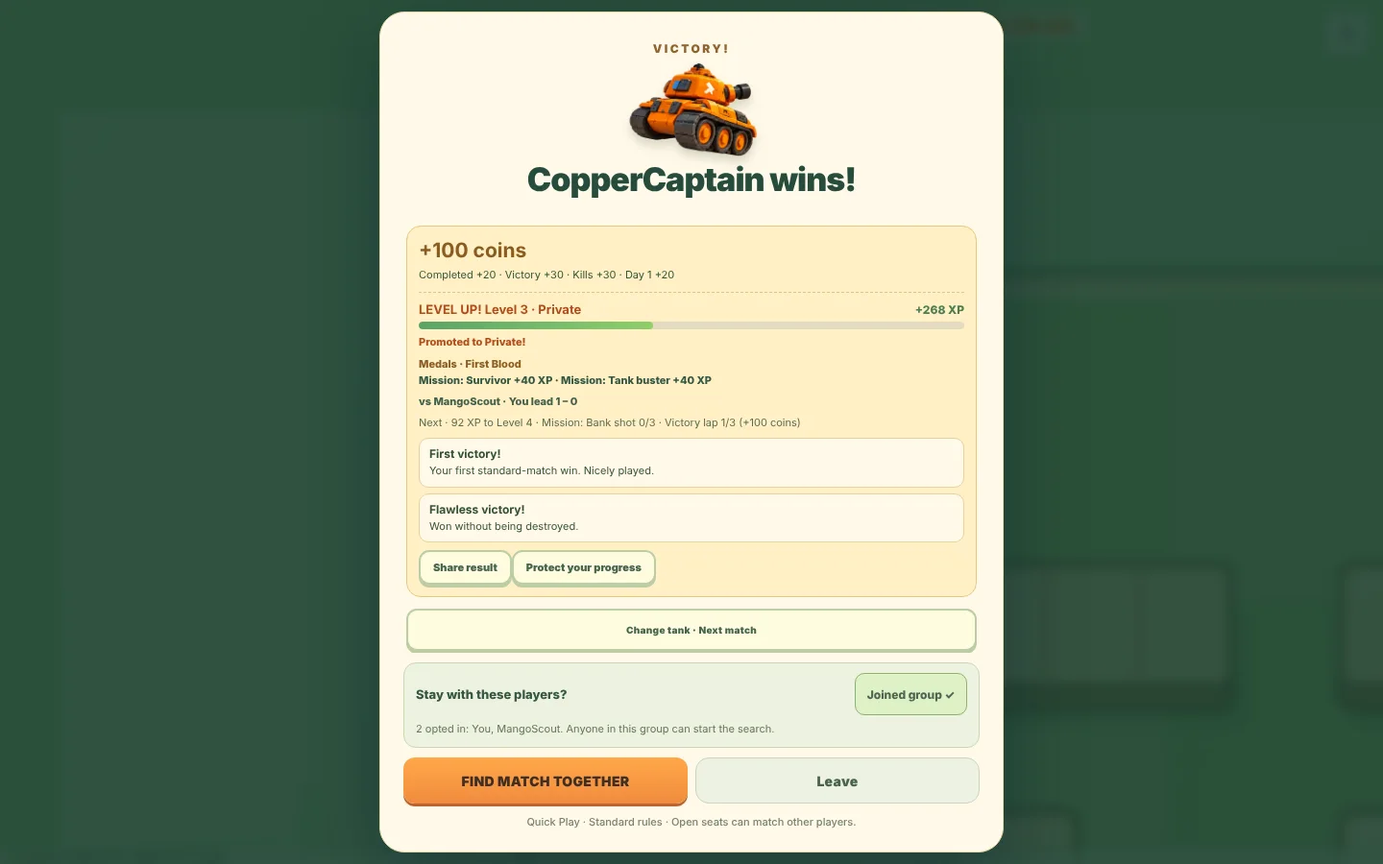
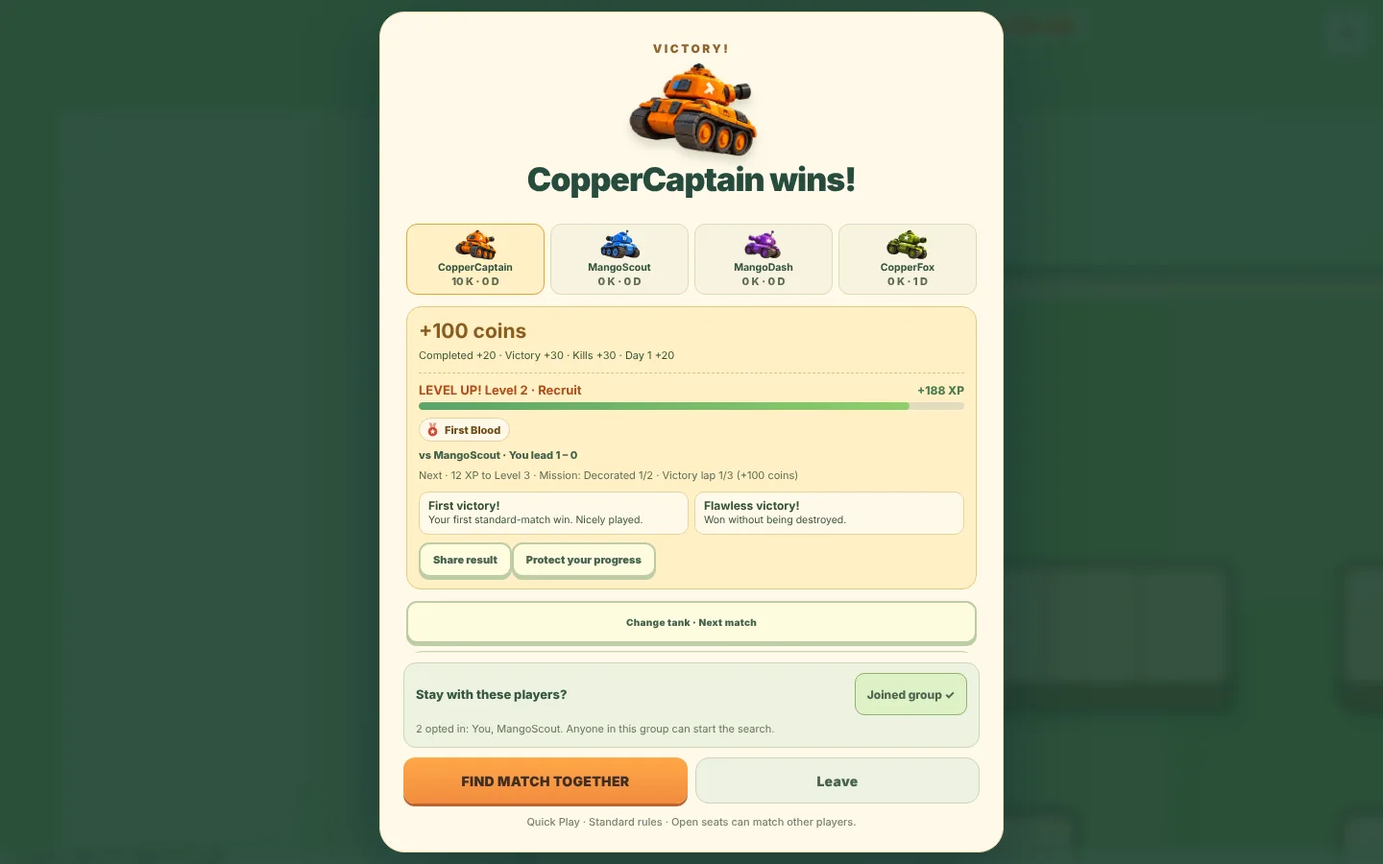
WIP 3.12: docs, version, tutorial image, CI steps

Changed region(s): [[0.2812, 0.2489, 0.7188, 0.7778]]

diff --git a/index.html b/index.html
@@ -1032,7 +1032,7 @@ html,body{background:#193f35}.page{animation:none}.game,.stage{background-color:
 <section id="tutorial" class="tutorial" role="dialog" aria-modal="true" aria-labelledby="tutorialTitle" hidden><div class="tutorial-card">
 <header class="tutorial-head"><div><p class="eyebrow">BOOT CAMP</p><h2 id="tutorialTitle">How to play</h2></div><button id="closeTutorial" class="tool" type="button" aria-label="Close how to play">CLOSE ✕</button></header>
 <div id="tutorialBody" class="tutorial-body" aria-live="polite">
-<article id="lessonWin" class="lesson"><img src="./tutorial/win.webp" alt="Results with the winner, coins, a level-up, medals, daily missions, a rival record, the next goal and opt-in Stay together controls for finding another match" width="1440" height="900" loading="lazy"><div><p class="eyebrow">HOW TO WIN</p><h3>Reach the win count.</h3><ul>
+<article id="lessonWin" class="lesson"><img src="./tutorial/win.webp" alt="Results with the winner, every player’s score, coins, a level-up, a medal, a rival record, the next goal and opt-in Stay together controls for finding another match" width="1440" height="900" loading="lazy"><div><p class="eyebrow">HOW TO WIN</p><h3>Reach the win count.</h3><ul>
 <li><b>Deathmatch:</b> the first player to the arena's win count wins.</li>
 <li><b>2 vs 2:</b> the first team to the win count wins. No friendly fire.</li>
 <li>The creator chooses <b>5 to 50 kills</b>; the default is <b>10</b>.</li>

diff --git a/shared.js b/shared.js
@@ -1,6 +1,6 @@
 (function(root) {
   const data = {
-    version:'3.11.0',maxHealth:10,laserDamage:4,laserRadius:6,barrelLength:40,doubleBarrelOffset:6,turretHeight:28,
+    version:'3.12.0',maxHealth:10,laserDamage:4,laserRadius:6,barrelLength:40,doubleBarrelOffset:6,turretHeight:28,
     mapLabels:{quarry:'Quarry',crossroads:'Crossroads'},
     // Badges with a stat and target unlock from lifetime totals and show progress in the Garage.
     achievements:[

diff --git a/GAMEPLAY.md b/GAMEPLAY.md
@@ -8,7 +8,7 @@ A playful, browser-based tank arena with chunky toy tanks, a sunny cartoon quarr
 
 On a phone, creating an arena and adding bots fit within the viewport. The map remains edge to edge during the countdown and on the result screen.
 
-Current release: **v3.11.0**, also shown in the top-left corner of the arena browser artwork. See [CHANGELOG.md](CHANGELOG.md) for release notes. The version appears in several files; follow the release checklist in [AGENTS.md](AGENTS.md).
+Current release: **v3.12.0**, also shown in the top-left corner of the arena browser artwork. See [CHANGELOG.md](CHANGELOG.md) for release notes. The version appears in several files; follow the release checklist in [AGENTS.md](AGENTS.md).
 
 The private admin page uses **system CPU and memory gauges**, with the game's share overlaid in orange from the zero end of each arc. CPU converts the game's one-core reading to a fraction of all cores; memory compares resident game memory with total RAM. Game percentages appear inside the gauges, with resident MiB in the memory gauge. Pi load shows 1-, 5- and 15-minute averages, values per CPU core and a 60-second history collected while the page is open. Core-count reference markers make load easier to interpret. Resource readings refresh once a second and are marked stale when disconnected; room views still refresh twice a second. See [DOCS.md](DOCS.md) for measurement details.
 
@@ -33,6 +33,8 @@ The main-screen illustration animates with tank recoil, brief muzzle flashes and
 
 One kill can earn several. Your own medals appear as a banner with a short chime (Effects Off mutes it); every kill-feed line shows the main medal; your results list them. AI tanks can earn medals too. Medals give experience, not coins or power.
 
+**Home screen:** your own tank, in its current skin, sits beside your level bar. Three tiles below show today's daily reward day, daily missions done and weekly challenges done; tap one to open its details in the Garage.
+
 **Levels and ranks:** every finished standard match gives experience: 50 for finishing, 40 for winning, 6 per kill (15 counted), 8 per medal (10 counted), 30 for your first match of the Malaysia day, and 10 for each extra win in a row (up to 40). The same rules as coins apply: standard settings, taking part, and staying to the end; practice matches, vehicle tests, idling and leaving earn none. Leaving or dropping out of a standard match also ends your win streak. Level 2 needs 80 experience, so your first finished match always levels you up; each level needs 40 more than the last, up to 600. Ranks: Recruit (1), Private (3), Corporal (6), Sergeant (10), Lieutenant (15), Captain (20), Major (26), Colonel (33), General (41), Field Marshal (50). Your level shows on the home screen and in the Garage; everyone sees a **LV** chip beside each player in lobbies and Quick Play line-ups. AI tanks have no level. **Levels are status only: no coins, no stat changes.** Players who had finished matches before levels existed start with experience for them (no coins).
 
 Results show the experience gained on a bar that fills to your new position, **LEVEL UP!** and any promotion, your medals, consecutive wins, and one **Next** line with the experience to the next level and your nearest unfinished weekly goal.
@@ -45,7 +47,7 @@ Results show the experience gained on a bar that fills to your new position, **L
 
 **Weekly champion:** whoever finished last week (Monday to Sunday, Malaysia time) at number one on the weekly leaderboard, with at least one win, wears a gold crown for the whole of this week: beside their name in lobbies, Quick Play line-ups and results, above their name tag in battle, and in a banner on the leaderboard. Playing a match as champion earns the Weekly champion badge. The crown is status only.
 
-**Share result** on the results screen opens your phone's share sheet (or copies the text on a computer) with a short summary such as "🏆 Victory in Tank Frenzy! 10 kills · 4 deaths · 🎯 52% · 🏅 Double Kill · Level 5 Private. Can you beat me?" and the game's address. Nothing private is included. In a friend lobby, **Invite / QR** also offers **Share invite** where the browser has a share sheet.
+**Share result** on the results screen shares a square picture of the result (your tank in its skin, kills, deaths, hit rate, medals and level) where the device can share files, with the summary as its caption. Otherwise it opens the share sheet with the text, and on a computer it copies the text and saves the picture. The summary reads like "🏆 Victory in Tank Frenzy! 10 kills · 4 deaths · 🎯 52% · 🏅 Double Kill · Level 5 Private. Can you beat me?" and the game's address. Nothing private is included. In a friend lobby, **Invite / QR** also offers **Share invite** where the browser has a share sheet.
 
 **Link previews:** a game link pasted into a chat app shows a title, a description and a picture; an invitation link reads "Join my Tank Frenzy arena · CODE". Previews need a public address (see DOCS.md).
 
@@ -79,13 +81,13 @@ Open the game's address (in the Home Assistant app: `http://YOUR_PI_IP:8765`, th
 
 Room links such as `https://your-game-address/?room=QUARRY` join directly with your remembered name; a generated Rookie callsign is supplied when needed. **Create Arena** creates and joins immediately with the selected mode and remembered rules. **Join Code** opens an editable code form; **Back** returns home. In the friend lobby, **Invite / QR** shows a scannable invitation and a copyable link. Rooms exist while humans remain, including brief reconnection reservations.
 
-The prominent **Play** button starts Quick Play immediately. **Create arena** and **Join with code** sit under Play with Friends; use the top-right profile icon to edit your remembered callsign; Save commits it and Back cancels. Public arenas appear only when available, with one-tap **Join**; an empty directory takes no screen space. Quick Play matches people arriving in the same mode around the same time; it never drops a new arrival into a round already underway. The oldest group waits up to **12 seconds**, or reveals immediately when four humans arrive. Remaining seats are filled with AI, then four large tank cards appear against the quarry backdrop with a **5-second** silent player-lineup timer with large numerals. The mobile arena is pinned to the viewport, with dark green page and browser-theme backgrounds behind the home-indicator area. The matchmaking background fills the fullscreen arena, with safe-area spacing around the content rather than pale borders at the screen edges. Everyone pressing **Ready** skips the remaining lineup wait. When the lineup ends, everyone enters the battlefield for a shared **3-second** countdown with audible ticks, then movement and firing unlock automatically. **Cancel** returns home without a confirmation. Public friend rooms refresh every five seconds. Quick Play groups and friends-only rooms are omitted from that directory.
+The prominent **Play** button starts Quick Play immediately. **Create arena** and **Join with code** sit under Play with Friends; use the top-right profile icon to edit your remembered callsign; Save commits it and Back cancels. Public arenas appear only when available, with one-tap **Join**; an empty directory takes no screen space. Quick Play matches people arriving in the same mode around the same time; it never drops a new arrival into a round already underway. The oldest group waits up to **12 seconds**, or reveals immediately when four humans arrive. While the search runs the field is live: a compact bar at the top shows who has been found, and you can drive and shoot to warm up. Nothing is damaged, collected or counted during the warm-up. **Your very first match skips the wait:** if you have never finished a match and nobody else is searching, you go straight to the countdown against three easy AI tanks; if someone is already searching, you join them. Remaining seats are filled with AI, then four large tank cards appear against the quarry backdrop with a **5-second** silent player-lineup timer with large numerals. The mobile arena is pinned to the viewport, with dark green page and browser-theme backgrounds behind the home-indicator area. The matchmaking background fills the fullscreen arena, with safe-area spacing around the content rather than pale borders at the screen edges. Everyone pressing **Ready** skips the remaining lineup wait. When the lineup ends, everyone enters the battlefield for a shared **3-second** countdown with audible ticks, then movement and firing unlock automatically. **Cancel** returns home without a confirmation. Public friend rooms refresh every five seconds. Quick Play groups and friends-only rooms are omitted from that directory.
 
 Desktop waiting rooms and battles fit the window without scrolling: the brand, tagline and How to Play share one slim row above the arena.
 
 The home screen uses a forest-green backdrop with quarry artwork beside the play panel on PCs and above it on phones and portrait tablets. Play and friend actions remain visible on small phones and short landscape screens. Longer public directories scroll, and the page can scroll when needed for larger text or a short viewport. Create/Join, waiting rooms and battles show the tagline in one compact line. On narrow screens the Create/Join form keeps its room rules and submit button visible without the arena header or controls taking space.
 
-Results show the winning tank or team and weekly rank movement before the compact player/kill scorecard. **Match Details** opens a separate panel inside the fullscreen arena with kills, deaths, hit rate and damage. Back closes it. When the 20-second rematch window expires, the final scoreboard and details stay visible; the group does not return to the waiting room. **Find new match** leaves the old group and starts Quick Play in the same mode in one tap, preserving fullscreen/expanded view. **Play Again** is available only during the rematch window; **Find new match** and **Leave** remain afterward. Actions stay outside the scrolling content. The reaction button opens the horizontal picker; menu and illustrated reaction icons use SVG so their appearance does not depend on installed emoji fonts.
+The match-winning kill plays for about a second in slow motion before the results open. Results show the winning tank or team, then every player's kills and deaths at a glance, then your rewards: coins count up, the experience bar fills and medals appear as coloured chips. Weekly rank movement and the compact player/kill scorecard follow. **Match Details** opens a separate panel inside the fullscreen arena with kills, deaths, hit rate and damage. Back closes it. When the 20-second rematch window expires, the final scoreboard and details stay visible; the group does not return to the waiting room. **Find new match** leaves the old group and starts Quick Play in the same mode in one tap, preserving fullscreen/expanded view. **Play Again** is available only during the rematch window; **Find new match** and **Leave** remain afterward. Actions stay outside the scrolling content. The reaction button opens the horizontal picker; menu and illustrated reaction icons use SVG so their appearance does not depend on installed emoji fonts.
 
 After the rematch window closes, **Stay together** offers an optional next-match group when at least two humans are connected. Each person opts in for themselves; click again to withdraw. Opting in alone never starts a search. With at least two consenting players, the action becomes **Find match together** for those players. Any consenting member can launch it. All consenting connected humans enter one same-mode Quick Play search together; everyone else stays on their results. With no group selected, **Find new match** still searches solo in one click. Quitting or disconnecting clears consent. AI cannot opt in, and no one replaces AI in another locked lineup. The new search uses standard public Quick Play rules; open seats can match other players and 2 vs 2 teams are balanced afresh, so staying in the same match is not a same-team guarantee. If the whole group cannot be admitted, everyone stays put with a retry notice. Normal silent lineup, Ready and field countdown follow. Admin spectators only see their finished leaderboard and Quit.
 
@@ -103,7 +105,7 @@ The circular **?** button opens **How to Play**, an eight-page guide with game s
 
 After creating a friend room, everyone sees tank cards with readiness, team and host status. The host starts the round and can edit mode, win count (5–50), bouncing, powers and friends-only privacy under **Room rules & privacy**. They can swap teams without exceeding two tanks per side. Changing rules, teams or bots clears readiness. Rules are fixed during play. Host ownership passes to a connected human when needed. The completed leaderboard remains visible after the result timer; it never automatically returns players to the waiting room. Use Play Again during the rematch window, opt into a new group search afterward, or leave/create a new friend arena to configure another battle.
 
-Friend-room starts and rematches use the existing shared **3–2–1** battle countdown. Quick Play also uses this battlefield countdown after its silent five-second lineup ends or all humans press Ready. Movement, aiming, firing and pickups stay frozen during all pregame phases. Friend rooms still allow late joins to running rounds; the Quick Play queue groups new humans only while searching. After its lineup locks, a direct invitation may fill a vacant human seat during countdown or play, but cannot replace AI.
+Friend-room starts and rematches use the existing shared **3–2–1** battle countdown. Quick Play also uses this battlefield countdown after its silent five-second lineup ends or all humans press Ready. Movement, aiming, firing and pickups stay frozen during the line-up, the countdown and friend lobbies; only the Quick Play search allows warm-up driving and firing. Friend rooms still allow late joins to running rounds; the Quick Play queue groups new humans only while searching. After its lineup locks, a direct invitation may fill a vacant human seat during countdown or play, but cannot replace AI.
 
 ## Host
 
@@ -134,6 +136,7 @@ The map name appears in matchmaking/waiting information and the field countdown,
 - During touch play, the map reaches the screen edges, while your score, health and menu sit inside the safe area over the map. The compact score chip shows progress toward the win target; a larger unlabeled bar shows your health and compact color-coded chips show the other tanks' kills without names. In 2 vs 2, the goal uses your team's kills and a star marks your teammate. Opponents' health bars also appear below their tanks. The arena code stays hidden while playing. Open the icon menu for fullscreen, invite, leave, music/effects and view controls. The close camera centres your own tank even at corner spawns and map edges, on both phones and PCs. Map space outside the boundary may be visible so your tank stays central. PC mouse aim remains under the cursor while the camera moves. Off-screen teammates get teal ALLY arrows; enemies get red ENEMY arrows. Arrows disappear in Full Map, after a win, or while respawning. Choose **Full Map** for an overview and **Close View** to return; this changes only your view, not movement, aiming, or the shared map. Leaving the arena restores the page.
 - Quick Play, Create Arena, joining an arena and Start Game enter fullscreen where the browser allows it (iPhone Safari uses the full browser view). Leaving restores the page.
 - Getting hit flares flames around the screen edges and shakes the view, harder for a laser or when destroyed. A −1/−4 damage number rises above every tank that takes damage, and destroyed tanks throw smoke and a shockwave ring. Android phones vibrate on your own hits (Effects Off disables it). At 3 health or less the edges keep smouldering until you heal or respawn. Reduced-motion settings keep the flames still and skip the shake.
+- Battle effects: a flash at the barrel and a small camera kick when you fire, dust and track marks behind moving tanks, a fireball with tumbling plates and a fading scorch mark where a tank is destroyed, smoke from wrecks, and a hit marker with a tick (and a short buzz on phones that support it) when your own shot lands. With reduced motion on, shake, dust, debris and slow motion are off.
 - Every destruction appears for a few seconds in a kill feed below the menu button ("Alice 💥 Bo"; your own kills and deaths are outlined). Three kills in a row without being destroyed shows "… is on fire! 🔥", five "… is unstoppable! ⚡", seven "… is a tank legend! 👑". Streaks reset when you are destroyed and on a rematch.
 - At 3 health or less a soft heartbeat plays with the smouldering screen edges (Effects Off mutes it).
 - Your own tank has a thick translucent halo in your color, plus a ★ after your name, so you can find it at a glance. In 2 vs 2, teammates have green rings and **ALLY** labels; opponents have red rings and **ENEMY** labels, independent of their individual tank colors. The result card separates Orange and Blue players and shows each team's score and winner.

diff --git a/AGENTS.md b/AGENTS.md
@@ -55,7 +55,7 @@ Multiplayer browser tank game packaged as a **Home Assistant app** (formerly add
 
 Client → server (JSON, max 2048 bytes, max 150 messages/s):
 - `{type:'join',room,name,mode:'create'|'join'|undefined,settings:{mode,bouncing,powers,targetScore},private?,profile?,token?}`. `token` reconnects for 90 s during battle. `{type:'quick',name,settings:{mode},profile?}` groups contemporaneous arrivals. Duplicate active profile membership is rejected.
-- `{type:'input',seq,x,y,aimX,aimY,fire}`. `seq` must increase; input is ignored outside the `playing` phase.
+- `{type:'input',seq,x,y,aimX,aimY,fire}`. `seq` must increase; input is ignored outside `playing` and the Quick Play `searching` warm-up.
 - `{type:'start'}` (owner only, while waiting), `{type:'rematch'}`, `{type:'bot',action:'add'|'remove'|'skill',skill}` (owner, waiting), `{type:'ping',sent}`, `{type:'leave'}`.
 - `{type:'spectate',room,pass}`: hidden admin spectator; must be the first message.
 - `{type:'group',roundId,joined:boolean}` toggles only the caller's consent in `postgame`. `{type:'requeue',roundId}` from a consenting member reserves the entire consenting connected group in one searching Quick Play room. Capacity failures send non-fatal `queue-error`; successful transfers send owner-only `welcome {requeued:true,...}` over existing sockets. Keep the previous room alias on each moved session so its private token can recover a missed transfer welcome. Never move non-consenting humans or displace AI. Snapshot `groupIds` exists only in postgame (at most four IDs); consent clears on reset, disconnect or departure.
@@ -64,7 +64,7 @@ Server → client: `welcome {id,token,profile:{secret,id},slot,room,seq}`, `stat
 
 Snapshots (`Room.snapshot({withMap})` → `encodeState`): one `JSON.stringify` per room per broadcast, numbers rounded to tenths (angles `a`/`aim` to hundredths). Shells carry only `id,x,y,slot`. `map` is included only when it changed or once a second (`tick%60===0`); every snapshot has `mapId`, and `welcome` is followed by a full snapshot with the map. Client code must use `latest.mapId ?? latest.map?.id` and keep the last received map. Snapshots go out at 30 Hz (the 60 Hz interval sends on even ticks); simulation runs at 120 Hz. `events` (hit, destroyed, shot, bounce, pickup, laser, …) are sent once, then cleared. A `destroyed` event may carry `medals:[ids]`. Player objects carry `medals` only in `results`/`postgame` and `level` only outside `countdown`/`playing`, so battle snapshots stay the same size. `crown:true` appears on the weekly champion alone, in every phase.
 
-Phases: friend `waiting` → `countdown` (3 s) → `playing` → `results` (20 s majority rematch). Expiry enters `postgame`, retaining the winner and statistics; only an explicit `lobby` command resets the group to `waiting`. The results UI offers Find new match to leave and requeue instead. Quick Play adds `searching` (up to 12 s, same-mode FIFO grouping) → `ready` (bots fill to four, 5 s shared timer) → `countdown` (3 s on the field) → `playing`; all human Ready votes skip only the lineup timer. Cancel removes the membership; disconnected pregame humans are removed promptly and never produce bot-only rounds.
+Phases: friend `waiting` → `countdown` (3 s) → `playing` → `results` (20 s majority rematch). Expiry enters `postgame`, retaining the winner and statistics; only an explicit `lobby` command resets the group to `waiting`. The results UI offers Find new match to leave and requeue instead. Quick Play adds `searching` (up to 12 s, same-mode FIFO grouping; a live warm-up where tanks drive and fire but `damage()`, pickups and statistics are off, and `fillQuick` clears the shells) → `ready` (bots fill to four, 5 s shared timer) → `countdown` (3 s on the field) → `playing`; all human Ready votes skip only the lineup timer. Cancel removes the membership; disconnected pregame humans are removed promptly and never produce bot-only rounds. With `quickFirstMatch` (a `createGameServer` option, default on), a profile with no finished match on the leaderboard or in the progress file that would create a new searching room goes straight to `countdown` against three AI; it still joins an existing searching room when there is one. Tests and checks about grouping brand-new guests pass `quickFirstMatch:false`.
 
 ## Game rules that code depends on
 
@@ -76,6 +76,7 @@ Phases: friend `waiting` → `countdown` (3 s) → `playing` → `results` (20 s
 - Rivals (`p.rivals` in `progress.cjs`, keyed by the other profile's ID, at most `FIELD.rivalLimit`): updated in `record()` for every non-vehicle-test match the player stayed in, whatever its rules. The server tracks `killsOn` per opponent each round. Views and results expose names and counts only, never rival profile IDs.
 - Weekly champion (`Leaderboard.champion()`): last week's top profile with at least one win, by the same ordering as the board. The server sets `player.crown` at join, on group requeue and when a match finishes. Status only.
 - Own-tank prediction (`predictOwnTank`, `advancePrediction`, `reconcileOwnTank` in `client.js`): the browser replays the server's movement rules for the local tank only, in 120 Hz steps, with input changes applied at event time. Each snapshot compares the server position with the remembered prediction from one delay ago (lowest of the last five pings + 8 ms) and applies a fifth of the difference, or all of it beyond 90 units. Any change to server movement, speed modifiers or `blocked()` must be mirrored in `advancePrediction`/`predictedBlocked`, and `tests/prediction.test.cjs` compares the two paths. Shells are extrapolated for at most 50 ms from their last two snapshots.
+- Battle effects (`muzzles`, `scorches`, `fireballs`, `hitMarks`, particle kinds `dust`/`smoke`/`chunk`, `finalBlow`) are client-only and bounded; they must never need a new snapshot field. Own-hit markers are inferred from the player's own shells that just ended near a `hit` event, or `by` on `destroyed`. While `finalBlow` is set (about 1.3 s after the winning kill, never with reduced motion or for spectators) `#results` stays hidden, so browser checks must wait for it to be visible. Rewards animate from `playRewardReveal()` when the results come into view.
 - Hidden spectators live in the server's `spectators` Map, never in `room.players`, so they never appear in counts, `/rooms` or snapshots. Watch passes are random hex, single room, 10-minute expiry; the client strips `?spectate=…&pass=…` from the address bar with `history.replaceState`.
 
 ## Home Assistant options
@@ -88,7 +89,7 @@ Phases: friend `waiting` → `countdown` (3 s) → `playing` → `results` (20 s
 
 ## Tests
 
-`npm test` runs `node --test tests/*.test.cjs` (306 tests, about 12 seconds). CI also builds amd64/aarch64 containers and checks admin, hero, multiplayer, progression, vehicle, growth and social UI plus control response. `tools/social-ui-check.cjs` uses two real browsers for daily missions (home, Garage, results), rivals from both sides and the champion's crown in the leaderboard, lobby, battle and results; `tests/missions.test.cjs` and `tests/rivals.test.cjs` cover the rules, including the champion. `tools/growth-ui-check.cjs` covers the home level bar, lobby/line-up level chips, medal banners, results experience and level-up, the next-goal line, Share result (share sheet and copy fallback) and badge progress at four sizes. `tools/prediction-check.cjs` puts a delaying TCP relay (`ONE_WAY_MS`, default 70) between a real browser and the server and asserts key-to-motion time, even motion, gradual settling, wall stops and diagonal speed. `tests/medals.test.cjs`, `tests/levels.test.cjs`, `tests/sharing.test.cjs` and `tests/prediction.test.cjs` cover the same features without a browser. `tools/progress-ui-check.cjs` covers purchasing, recovery, Day 7 rewards, weekly challenge progress/automatic bonuses and responsive Garage layouts, including Showcase purchases and cross-device recovery. `tests/maps.test.cjs` checks connectivity, spawn/cover safety, symmetry, rotation, combat and deterministic bot navigation on both layouts/modes. `tests/weekly.test.cjs` checks weekly thresholds, Malaysia reset/retry attribution, rollback, migration, private counters and actual ricochet hits. `tools/multiplayer-ui-check.cjs` exercises real HTTP/WebSocket grouping, Ready, results, opt-in postgame group requeue, solo search, shared reactions, ranks, privacy, QR invitations and direct invite joining at desktop, phone and landscape sizes. Playwright is a CI-only dependency. Browser check artifacts go under `artifacts/`; local tools may set `CHROMIUM_EXECUTABLE_PATH` and `ARTIFACT_DIR`.
+`npm test` runs `node --test tests/*.test.cjs` (313 tests, about 12 seconds). CI also builds amd64/aarch64 containers and checks admin, hero, multiplayer, progression, vehicle, growth, social, battle-feel and quick-start UI plus control response. `tools/feel-ui-check.cjs` covers muzzle flash, own-hit markers from a real shell, dust, debris, scorch, wreck smoke, effect bounds, the slow-motion final blow and reduced motion; `tools/quickstart-ui-check.cjs` covers the instant first match and warm-up driving while searching; `tests/warmup.test.cjs` covers both on the server. `tools/social-ui-check.cjs` uses two real browsers for daily missions (home, Garage, results), rivals from both sides and the champion's crown in the leaderboard, lobby, battle and results; `tests/missions.test.cjs` and `tests/rivals.test.cjs` cover the rules, including the champion. `tools/growth-ui-check.cjs` covers the home level bar, lobby/line-up level chips, medal banners, results experience and level-up, the next-goal line, Share result (share sheet and copy fallback) and badge progress at four sizes. `tools/prediction-check.cjs` puts a delaying TCP relay (`ONE_WAY_MS`, default 70) between a real browser and the server and asserts key-to-motion time, even motion, gradual settling, wall stops and diagonal speed. `tests/medals.test.cjs`, `tests/levels.test.cjs`, `tests/sharing.test.cjs` and `tests/prediction.test.cjs` cover the same features without a browser. `tools/progress-ui-check.cjs` covers purchasing, recovery, Day 7 rewards, weekly challenge progress/automatic bonuses and responsive Garage layouts, including Showcase purchases and cross-device recovery. `tests/maps.test.cjs` checks connectivity, spawn/cover safety, symmetry, rotation, combat and deterministic bot navigation on both layouts/modes. `tests/weekly.test.cjs` checks weekly thresholds, Malaysia reset/retry attribution, rollback, migration, private counters and actual ricochet hits. `tools/multiplayer-ui-check.cjs` exercises real HTTP/WebSocket grouping, Ready, results, opt-in postgame group requeue, solo search, shared reactions, ranks, privacy, QR invitations and direct invite joining at desktop, phone and landscape sizes. Playwright is a CI-only dependency. Browser check artifacts go under `artifacts/`; local tools may set `CHROMIUM_EXECUTABLE_PATH` and `ARTIFACT_DIR`.
 
 Harness quirks:
 - `client.js` and `server.cjs` are loaded into `vm` sandboxes with hand-made fake DOM elements (children, `append`, `prepend`, `replaceChildren`, `classList`, events, `setAttribute`). They have no `querySelector`, `closest` or `dataset`; if new client code uses a browser API, add it to the fake (or guard the call), or the sandbox throws.
@@ -133,4 +134,4 @@ npx -y -p playwright node tools/tutorial-screenshots.cjs [baseUrl] [outDir]   # 
 
 `vehicle_classes_enabled` defaults false. Garage offers private Vehicle test creation when enabled. Only server-admitted private friend rooms can use `ruleset: vehicle-test`, with `balanceRevision: vehicles-1`; public/ordinary/Quick Play remain Standard. Keep test rules immutable through room edits and always private. Check `vehicleRevision` before join/reconnect membership. Class preferences are permanent private `selectedVehicle` IDs; never trust client stats. Resolve/cache class stats at admission and round start, retain them through respawn/reconnect, reject preference changes outside results/postgame while a profile has membership.
 
-Test rounds are admin history only: exclude them from all-time entries, period rows, adaptive difficulty and every progression path including delayed retries. History carries actual classes and revision; results selection affects only the next round. Keep skin art/stats independent, Standard snapshots compact and shared collision/muzzle/power duration unchanged. The five browser checks include `tools/vehicle-ui-check.cjs`; its screenshots cover both maps and four viewport sizes. Human balance and real Pi performance remain observation work, not CI guarantees.
+Test rounds are admin history only: exclude them from all-time entries, period rows, adaptive difficulty and every progression path including delayed retries. History carries actual classes and revision; results selection affects only the next round. Keep skin art/stats independent, Standard snapshots compact and shared collision/muzzle/power duration unchanged. The browser checks include `tools/vehicle-ui-check.cjs`; its screenshots cover both maps and four viewport sizes. Human balance and real Pi performance remain observation work, not CI guarantees.

diff --git a/README.md b/README.md
@@ -4,7 +4,7 @@ This `dev` branch is the test installation. Add `https://github.com/charlescsj-d
 
 Install Tank Frenzy as a Home Assistant app (formerly called an add-on). The Pi hosts the multiplayer game; players use Safari, Edge, Chrome, or another modern browser on their phones, tablets, or computers. Rendering and sound run on each player's device.
 
-**Tank Frenzy v3.11.0** adds three daily missions (the same for everyone, paying experience), head-to-head records against the people you play, and a crown for last week's number one. v3.10.0 makes your own tank respond the instant you press, adds combat medals (Double Kill, Revenge, Trick Shot and more), player levels with ranks, nine more badges with progress, a one-tap **Share result**, and link previews with a picture in chat apps. Levels are status only and pay no coins. See [GROWTH_PLAN.md](GROWTH_PLAN.md) for the reasoning and what is proposed next.
+**Tank Frenzy v3.12.0** makes battles livelier (muzzle flashes, dust, debris, scorch marks, hit markers and a slow-motion final blow), puts a first-time player on the field at once, lets everyone drive and shoot while Quick Play searches, shares results as a picture, and tidies the home and results screens. v3.11.0 adds three daily missions (the same for everyone, paying experience), head-to-head records against the people you play, and a crown for last week's number one. v3.10.0 makes your own tank respond the instant you press, adds combat medals (Double Kill, Revenge, Trick Shot and more), player levels with ranks, nine more badges with progress, a one-tap **Share result**, and link previews with a picture in chat apps. Levels are status only and pay no coins. See [GROWTH_PLAN.md](GROWTH_PLAN.md) for the reasoning and what is proposed next.
 
 v3.9.0 adds an optional private vehicle-class pilot. Standard, Scout and Heavy are free; skins remain cosmetic. Enable `vehicle_classes_enabled` in the dev app, then open Garage → Create vehicle test. Ordinary matches still use Standard. Test matches save admin history but award no coins or rankings. See [VEHICLE_CLASSES_PLAN.md](VEHICLE_CLASSES_PLAN.md) for the rules and remaining playtesting.
 
@@ -62,7 +62,7 @@ docker run --rm -p 8765:8765 tank-frenzy-rpi
 
 Run the build on the intended architecture (or use Docker Buildx with `--platform linux/arm64`). The repository includes CI for tests and ARM64/AMD64 container builds. A physical Pi/Home Assistant installation and mobile play must still be checked on the target device; automated tests do not establish Pi performance under load.
 
-App package version: **3.11.0**. Game version: **3.11.0**. The dev Home Assistant app keeps its own slug; releases bump the numeric version in several files at once. See the release checklist in [AGENTS.md](AGENTS.md).
+App package version: **3.12.0**. Game version: **3.12.0**. The dev Home Assistant app keeps its own slug; releases bump the numeric version in several files at once. See the release checklist in [AGENTS.md](AGENTS.md).
 
 The How to Play screenshots in `tutorial/` are rendered by the game itself. After a visual change, run `npm start` and then `npx -y -p playwright node tools/tutorial-screenshots.cjs` to regenerate them (set `ONLY=win.webp` for one image).
 

diff --git a/CHANGELOG.md b/CHANGELOG.md
@@ -1,5 +1,16 @@
 # Changelog
 
+## v3.12.0 [2026-11-16]
+
+- **Livelier battles.** Muzzle flashes, a small camera kick when you fire, dust behind moving tanks, clearer track marks, a fireball with tumbling plates in the destroyed tank's colour, scorch marks that fade over half a minute, smoke from wrecks and a puff where a shell ends. Your own hits show a hit marker with a tick and, on phones that support it, a short buzz. Nearby explosions shake the screen a little.
+- **Final blow.** The match-winning kill plays for about a second in slow motion, with the camera closing in, before the results appear.
+- **Instant first match.** A player who has never finished a match and presses Play with nobody else searching starts at once against three easy AI tanks: no search and no line-up, straight to the 3–2–1 countdown. If someone is already searching, the newcomer joins them instead. From the second match on, Quick Play queues as before.
+- **Warm up while you wait.** During the Quick Play search the field is live: drive and shoot under a compact search bar. Nothing is damaged, collected or counted, and the line-up and battle start from fresh spawns.
+- **Share a picture.** Share result now sends a square picture with your tank, the score, medals and level where the device can share files; otherwise it shares the text, and on a computer it copies the text and saves the picture.
+- **Tidier home and results.** The home screen shows your own tank beside your level and three progress tiles (Daily, Missions, Weekly). Results open with every player's score at a glance, coins count up, the experience bar fills after them and medals appear as coloured chips.
+- With reduced motion switched on in the device settings there is no shake, dust, debris or slow motion, and results appear at once.
+- Technical: effects are client-only and bounded (at most 420 particles, 14 scorch marks); battle snapshots and rules are unchanged. `Room.step` simulates movement and shells in `searching` with damage, pickups and statistics off, and `fillQuick` clears warm-up shells. `createGameServer({quickFirstMatch})` (default on) controls the instant first match; a profile is new when neither the leaderboard nor the progress file has a finished match for it. New checks: `tests/warmup.test.cjs`, `tools/feel-ui-check.cjs` and `tools/quickstart-ui-check.cjs`.
+
 ## v3.11.0 [2026-11-15]
 
 - **Daily missions.** Three small goals every Malaysia day, the same for everyone, from a pool of ten (destroy 8 tanks, collect 3 power-ups, earn 2 medals, and so on). Each pays 40 experience once; all three add 60 more. Experience only, no coins. Shown on the home screen, in the Garage and on results.

diff --git a/GROWTH_PLAN.md b/GROWTH_PLAN.md
@@ -52,6 +52,15 @@ Implemented on `dev` in v3.11.0: daily missions (experience only, 40 each and 60
 3. **Weekly champion.** Last week's number one wears a crown beside their name for the following week. Costs nothing, and in a small community everyone knows who it is.
 4. **Rivalries.** Head-to-head records against people you have played ("You 5 – 3 Aiman"), and your most frequent opponent on your profile. Friend groups care more about each other than about a global board.
 
+## First impressions (v3.12.0, implemented on dev)
+
+A pass on how the game looks and feels in a newcomer's first minute, because that minute decides whether a shared link turns into a player.
+
+1. **Livelier battles.** Muzzle flashes, dust, track marks, debris, scorch marks, wreck smoke, hit markers and a slow-motion final blow. Client-only and bounded; no rule or network change.
+2. **No waiting for the first shot.** A first-time player alone in the queue starts at once against three easy AI tanks. Everyone else can drive and shoot while Quick Play searches. Trade-off accepted: two brand-new players who press Play within the same few seconds each get their own first match instead of meeting; from the second match on they queue together.
+3. **A picture to share.** Share result sends a square result card where the device can share files.
+4. **Tidier home and results.** Own tank and progress tiles on the home screen; score at a glance, counted coins and medal chips on results.
+
 ## Phase 3: variety and events (proposed)
 
 1. **Seasons.** A monthly free reward track fed by experience, with rank-exclusive skins that cannot be bought. Gives levels a tangible reward without changing coin prices.

diff --git a/DOCS.md b/DOCS.md
@@ -69,7 +69,7 @@ v3.7.0 adds one server-generated layout, Crossroads, beside the original seeded 
 1. The app log should show listeners on game port `8765` and internal ingress port `8099`.
 2. Open **Web UI**: the lobby, banner and room list should load.
 3. Open `http://YOUR_PI_IP:8765` on two devices. Create and join one arena, set a win count between 5 and 50 (default 10), start a round, move, shoot, and confirm sound after interacting.
-4. Check `http://YOUR_PI_IP:8765/health`; it should return `status: ok` and game version `3.11.0`.
+4. Check `http://YOUR_PI_IP:8765/health`; it should return `status: ok` and game version `3.12.0`.
 5. Test an invitation generated from the sidebar after setting `public_url`.
 
 ## Updates
